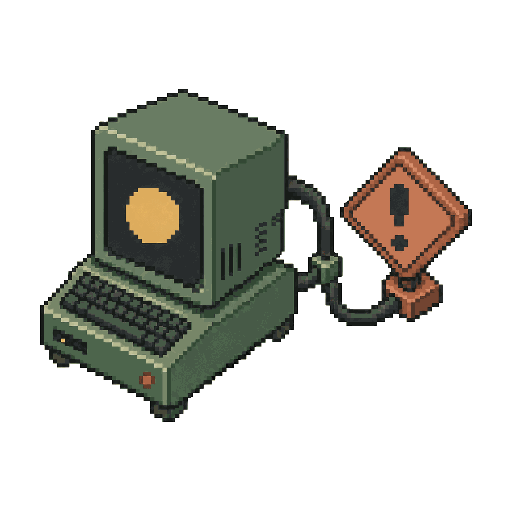
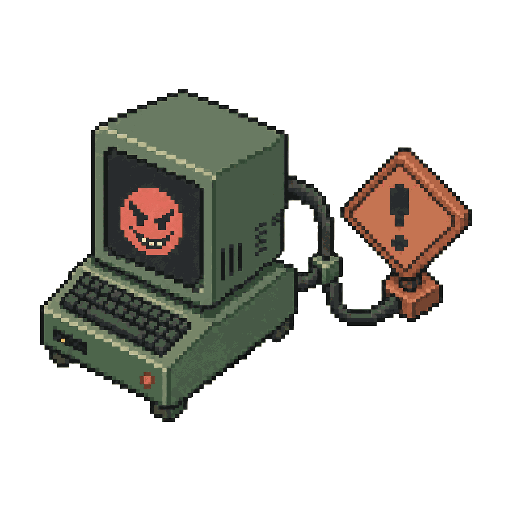
Refresh value artwork and add soft pixel corner accents

diff --git a/src/app/eigenbench.css b/src/app/eigenbench.css
@@ -546,3 +546,27 @@
  .match-response-scroll { max-height:260px; padding:13px 14px; }
  .match-response>h3 { min-height:44px; }
 }
+
+/* Small broken-pixel corner marks; the reading surface and silhouette stay soft. */
+:is(.match-home-preview,.match-preview-question,.match-preview-options>span,.match-question-pane .match-scenario,.match-question-pane .match-response,.match-bucket) { position:relative; }
+:is(.match-home-preview,.match-preview-question,.match-preview-options>span,.match-question-pane .match-scenario,.match-question-pane .match-response,.match-bucket)::after {
+ --corner-ink:color-mix(in srgb,var(--response-ink,var(--accent)) 72%,var(--bg-elevated));
+ --corner-glint:color-mix(in srgb,var(--response-ink,var(--accent)) 28%,var(--text));
+ content:''; position:absolute; inset:0; z-index:2; border-radius:inherit; pointer-events:none; opacity:.7;
+ background:
+  linear-gradient(var(--bg-elevated),var(--bg-elevated)) 13px 0/6px 1px no-repeat,
+  linear-gradient(var(--bg-elevated),var(--bg-elevated)) 0 13px/1px 6px no-repeat,
+  linear-gradient(var(--bg-elevated),var(--bg-elevated)) calc(100% - 13px) 100%/6px 1px no-repeat,
+  linear-gradient(var(--corner-ink),var(--corner-ink)) 4px 8px/3px 3px no-repeat,
+  linear-gradient(var(--corner-ink),var(--corner-ink)) 8px 4px/3px 3px no-repeat,
+  linear-gradient(var(--corner-glint),var(--corner-glint)) 4px 4px/2px 2px no-repeat,
+  linear-gradient(var(--corner-ink),var(--corner-ink)) calc(100% - 4px) 8px/3px 3px no-repeat,
+  linear-gradient(var(--corner-glint),var(--corner-glint)) calc(100% - 8px) 4px/2px 2px no-repeat,
+  linear-gradient(var(--corner-ink),var(--corner-ink)) 4px calc(100% - 8px)/3px 3px no-repeat,
+  linear-gradient(var(--corner-glint),var(--corner-glint)) 8px calc(100% - 4px)/2px 2px no-repeat,
+  linear-gradient(var(--corner-ink),var(--corner-ink)) calc(100% - 4px) calc(100% - 8px)/3px 3px no-repeat,
+  linear-gradient(var(--corner-ink),var(--corner-ink)) calc(100% - 8px) calc(100% - 4px)/3px 3px no-repeat;
+ transition:opacity 180ms ease;
+}
+.match-home-preview:hover::after,.match-question-pane .match-response[data-selected=true]::after { opacity:1; }
+@media(prefers-reduced-motion:reduce) { :is(.match-home-preview,.match-preview-question,.match-preview-options>span,.match-question-pane .match-scenario,.match-question-pane .match-response,.match-bucket)::after { transition:none; } }

diff --git a/src/components/ArenaOverview.tsx b/src/components/ArenaOverview.tsx
@@ -205,7 +205,7 @@ export function ArenaOverview({ full = false }: { full?: boolean }) {
           <section className="arena-tv-panel research-intro has-pixel-art hero-with-hills" aria-labelledby="arena-home-heading">
             <PixelHills variant="hero" className="hero-hills arena-tv-hills" />
             <h1 id="arena-home-heading">Measuring values in language models</h1>
-            <img className="home-pixel-art" src="/assets/art/model-conversation-values.webp" width="768" height="507" alt="" aria-hidden="true" />
+            <img className="home-pixel-art" src="/assets/art/model-conversation-values.webp?v=4" width="768" height="507" alt="" aria-hidden="true" />
             <p className="research-deck">EigenBench scores language models on how well their answers fit a written set of values, which we call a constitution. Browse the rankings, compare models across constitutions, and read the actual responses and judgments behind every score.</p>
             <div className="home-actions"><a className="button-primary" href="/explore/">Explore results</a><a className="button-secondary" href="/methodology/">How EigenBench works</a></div>
           </section>

diff --git a/src/components/ModelMatch.tsx b/src/components/ModelMatch.tsx
@@ -166,7 +166,7 @@ export function ModelMatch() {
     const preview = pack.questions[answers.findIndex(answer => answer === null)] || pack.questions[0];
     return <section className="model-match-intro">
     <div><h1>Which model is most<br />aligned with your values?</h1><p>Choose between real model responses and discover your closest match.</p>
-      <img className="match-intro-choice-art" src="/assets/art/value-choice.webp" width="768" height="432" alt="A thoughtful person choosing between the Goodness and Taoism value symbols, with a question mark overhead." fetchPriority="high" />
+      <img className="match-intro-choice-art" src="/assets/art/value-choice.webp?v=2" width="768" height="432" alt="A thoughtful person choosing between the Goodness and Misalignment value symbols, with a question mark overhead." fetchPriority="high" />
       <div className="match-intro-meta"><span>10 scenarios</span><span>5 models</span><span>No signup</span></div>
       <div className="eigenbench-actions"><RunButton /></div>
       {completed > 0 && <p className="match-saved-note">{completed} of {pack.questions.length} answered. Your progress is saved in this tab.</p>}

diff --git a/src/lib/value-logos.ts b/src/lib/value-logos.ts
@@ -9,5 +9,5 @@ const PIXEL_VALUES = new Set([
 export function valueLogoURL(value: string): string | undefined {
   let id = value.toLowerCase().trim().replace(/^oct_/, '').replace(/[\s-]+/g, '_');
   if (['taoism', 'marxism', 'lockean_rights'].includes(id)) id += '_constitution';
-  return PIXEL_VALUES.has(id) ? `/assets/art/values/${id}.webp` : undefined;
+  return PIXEL_VALUES.has(id) ? `/assets/art/values/${id}.webp${['misalignment', 'sycophancy', 'sarcasm'].includes(id) ? '?v=2' : ''}` : undefined;
 }
